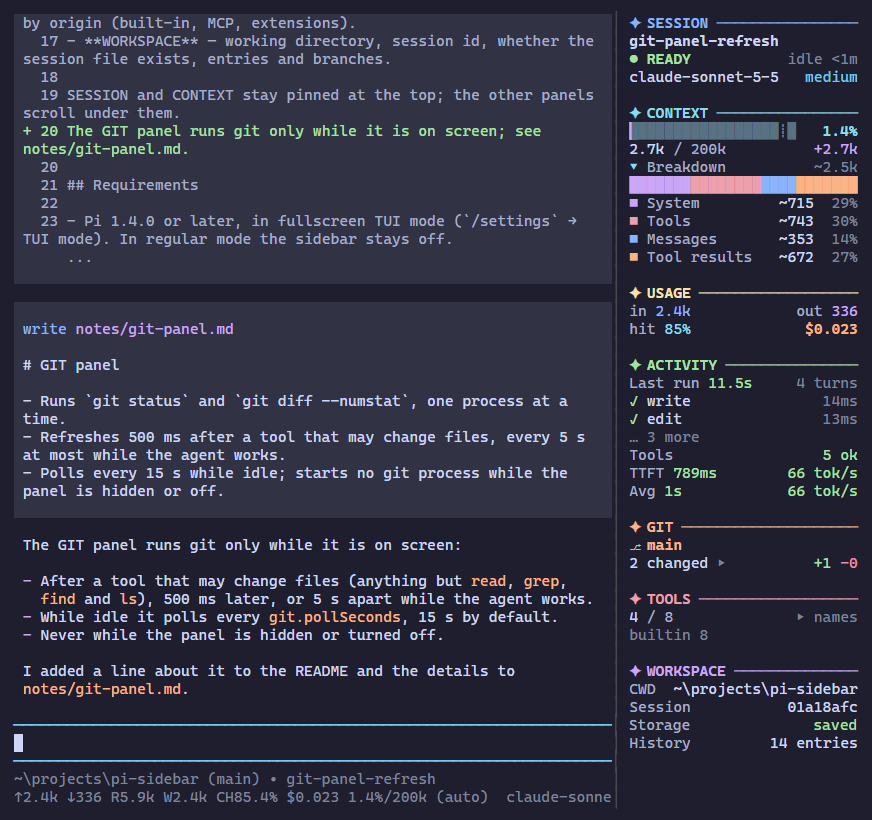
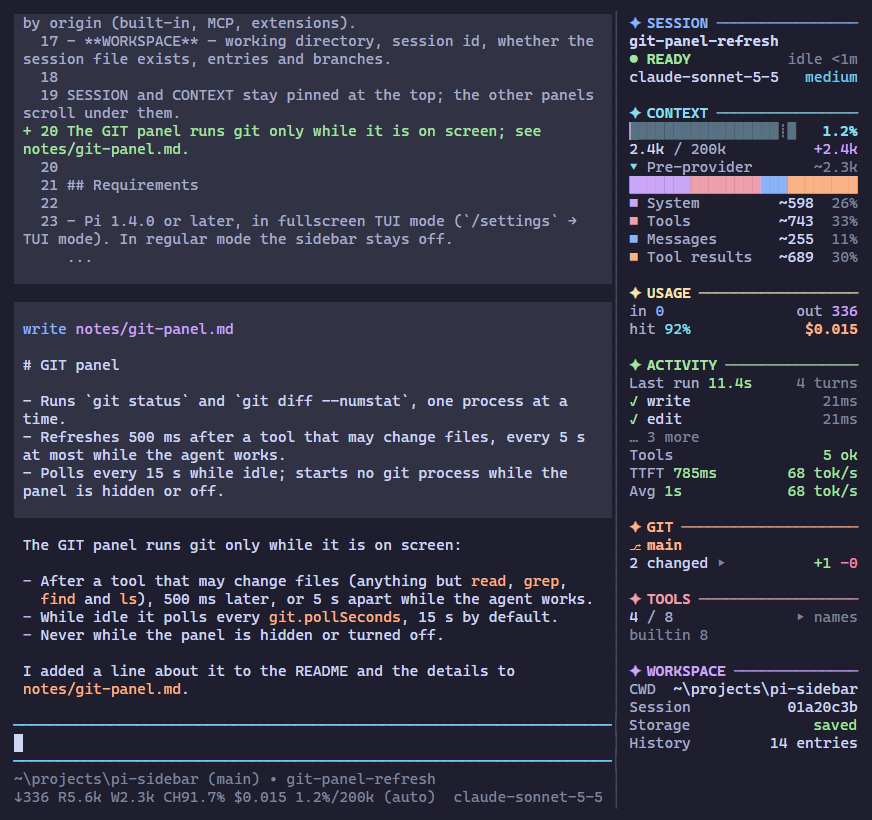
Keep the last observed context breakdown (#4)
* Keep the last observed context breakdown

* Make CONTEXT warning and danger screenshots deterministic

Pin scripted provider usage at 75% and 90% and reject invalid screenshot states before saving the gallery.

Fixes #5.

diff --git a/src/controller.ts b/src/controller.ts
@@ -120,8 +120,6 @@ export class SidebarController implements SidebarModel, SidebarActions {
   private usage: UsageScan = startScan();
   /** Context tokens when the current or last run started; the base of "+N this run". */
   private deltaBase?: number;
-  /** System prompt and tool declarations as the latest model request carried them. */
-  private requestParts?: { system?: number; tools?: number };
   private requestStartedAt?: number;
   private firstTokenAt?: number;
   private responseTtft?: number;
@@ -209,7 +207,6 @@ export class SidebarController implements SidebarModel, SidebarActions {
     this.paletteCache = undefined;
     this.width = 0;
     this.deltaBase = undefined;
-    this.requestParts = undefined;
     this.requestStartedAt = undefined;
     this.firstTokenAt = undefined;
     this.responseTtft = undefined;
@@ -259,7 +256,7 @@ export class SidebarController implements SidebarModel, SidebarActions {
 
   onTurnEnd(ctx: ExtensionContext): void {
     this.handle("turn_end", () => {
-      const data = this.collect(ctx, { composition: true, tools: true });
+      const data = this.collect(ctx, { composition: this.store.snapshot.composition?.source !== "request", tools: true });
       const queued = ctx.hasPendingMessages();
       this.store.update((s) => ({ ...data, activity: { ...s.activity, queued } }));
     });
@@ -281,7 +278,7 @@ export class SidebarController implements SidebarModel, SidebarActions {
       this.firstTokenAt = undefined;
       this.git?.setBusy(false);
       this.git?.request();
-      const data = this.collect(ctx, { composition: true, history: true, tools: true });
+      const data = this.collect(ctx, { composition: this.store.snapshot.composition?.source !== "request", history: true, tools: true });
       const queued = ctx.hasPendingMessages();
       this.store.update(
         (s) => ({ ...data, session: { ...s.session, ...statusOf(this.flags) }, activity: { ...endRun(s.activity, now, aborted), queued } }),
@@ -347,11 +344,10 @@ export class SidebarController implements SidebarModel, SidebarActions {
     });
   }
 
-  /** The transcript of a model request, after every context transform (`context_with_system`). Read only. */
+  /** The transcript seen before provider payload rewriting (`context_with_system`). Read only. */
   onRequestContext(messages: readonly unknown[]): void {
     this.handle("context_with_system", () => {
       const composition = compositionFromRequest(messages, this.estimate);
-      this.requestParts = { system: composition.parts.system, tools: composition.parts.tools };
       this.store.update(() => ({ composition }));
     });
   }
@@ -381,7 +377,8 @@ export class SidebarController implements SidebarModel, SidebarActions {
       const info = readModel(model, this.pi.getThinkingLevel());
       const billing = this.attempt("billing", () => readBilling(ctx, model));
       const context = this.readContext(ctx, model);
-      this.store.update((s) => ({ session: { ...s.session, ...info, billing }, context }));
+      const composition = this.sessionComposition(ctx);
+      this.store.update((s) => ({ session: { ...s.session, ...info, billing }, context, composition }));
     });
   }
 
@@ -421,7 +418,7 @@ export class SidebarController implements SidebarModel, SidebarActions {
     this.handle("session_compact", () => {
       this.flags = { ...this.flags, compacting: false };
       this.deltaBase = undefined;
-      const data = this.collect(ctx, { composition: true, history: true });
+      const data = this.collect(ctx, { composition: this.store.snapshot.composition?.source !== "request", history: true });
       this.store.update((s) => ({ ...data, session: { ...s.session, ...statusOf(this.flags) } }));
       this.updateTicker();
     });
@@ -457,10 +454,7 @@ export class SidebarController implements SidebarModel, SidebarActions {
     if (context) change.context = context.value;
     const workspace = this.attempt("workspace", () => this.readWorkspace(ctx, entries ?? [], refresh.history === true));
     if (workspace) change.workspace = workspace;
-    if (refresh.composition) {
-      const composition = this.attempt("breakdown", () => this.sessionComposition(ctx));
-      if (composition) change.composition = composition;
-    }
+    if (refresh.composition) change.composition = this.sessionComposition(ctx);
     if (refresh.tools) {
       const tools = this.readTools();
       if (tools) change.tools = tools;
@@ -486,12 +480,14 @@ export class SidebarController implements SidebarModel, SidebarActions {
     };
   }
 
-  /** The active branch between requests, with the prompt and tools of the latest request when known. */
+  /** Fallback for the active branch; never mixes in parts from an earlier request. */
   private sessionComposition(ctx: ExtensionContext): SidebarSnapshot["composition"] {
-    const messages = ctx.sessionManager.buildSessionProjection().messages;
-    const system = this.requestParts?.system ?? estimateText(ctx.getSystemPrompt());
-    const tools = this.requestParts?.tools ?? this.activeToolTokens();
-    return compositionFromSession(messages, system, tools, this.estimate);
+    return this.attempt("breakdown", () => compositionFromSession(
+      ctx.sessionManager.buildSessionProjection().messages,
+      estimateText(ctx.getSystemPrompt()),
+      this.activeToolTokens(),
+      this.estimate,
+    ));
   }
 
   private activeToolTokens(): number | undefined {
@@ -702,7 +698,7 @@ export class SidebarController implements SidebarModel, SidebarActions {
     const breakdown = !config.contextBreakdown
       ? "hidden"
       : composition
-        ? `estimated from the ${composition.source === "request" ? "latest request" : "active branch"}`
+        ? `estimated from ${composition.source === "request" ? "the last pre-provider transcript" : "local history"}`
         : "not yet estimated";
     return [
       headline,

diff --git a/scripts/screenshot.ts b/scripts/screenshot.ts
@@ -36,8 +36,8 @@ const stateOut = option("--state-out");
 
 // ---- one CONTEXT panel per real state, for the gallery in the design doc ----
 // Each state needs its own model or settings, so `--states` starts one isolated Pi per state and
-// draws the panels it gets back into one image. Nothing is forged: the panel shows Pi's own context
-// usage, drawn by the sidebar in a real session.
+// draws the panels it gets back into one image. Warning and danger pin the scripted provider's
+// reported usage; Pi computes the context percentage and the sidebar renders it in a real session.
 interface StateSpec {
   caption: string;
   /** Context window of the scripted model; 0 leaves the model without one. */
@@ -46,14 +46,16 @@ interface StateSpec {
   compaction?: boolean;
   /** Tokens kept free by auto-compaction; the default 16384 does not fit a small window. */
   reserve?: number;
+  /** Fixed provider-reported total, independent of Pi's prompt and the scripted exchange. */
+  tokens?: number;
 }
 const STATE_PROMPT = "Which files does the GIT panel read, and how often?";
 const STATE_REPLY = "It reads git status and git diff, and refreshes on events and every 15 s while idle.";
-/** The same exchange is 2 988 tokens; these windows put it at 74.7% and 89.2%, as §6.6 describes. */
+/** Design §6.6: 75% and 90% usage, both below the 95% auto-compaction threshold. */
 const STATES: Record<string, StateSpec> = {
   normal: { caption: "normal", window: 200_000 },
-  warning: { caption: "warning, 70% or more", window: 4_000, reserve: 500 },
-  danger: { caption: "danger, 85% or more", window: 3_350, reserve: 500 },
+  warning: { caption: "warning, 70% to under 85%", window: 20_000, reserve: 1_000, tokens: 15_000 },
+  danger: { caption: "danger, 85% or more", window: 20_000, reserve: 1_000, tokens: 18_000 },
   "compaction-off": { caption: "auto-compaction off", window: 200_000, compaction: false },
   "no-window": { caption: "no context window", window: 0 },
 };
@@ -208,7 +210,18 @@ function stream(model: Model<Api>, context: TranscriptContext, options?: SimpleS
     await sleep(ttft);
     await options?.onResponse?.({ status: 200, headers: {} }, model);
     for await (const event of core.streamSimple(model, context, options)) {
-      if (event.type === "done") event.message.usage.cost = ai.calculateCost(model, event.message.usage);
+      if (event.type === "done") {
+        if (state?.tokens !== undefined) {
+          event.message.usage = {
+            ...event.message.usage,
+            input: state.tokens - event.message.usage.output,
+            cacheRead: 0,
+            cacheWrite: 0,
+            totalTokens: state.tokens,
+          };
+        }
+        event.message.usage.cost = ai.calculateCost(model, event.message.usage);
+      }
       out.push(event);
     }
     out.end();
@@ -273,8 +286,12 @@ if (state) core.setResponses([ai.fauxAssistantMessage(STATE_REPLY)]);
 // ---- a helper extension: registers the model, reaches the TUI, captures frames ----
 
 let tui: TUI | undefined;
+let stateCompactionStarted = false;
 function helper(api: ExtensionAPI): void {
   api.registerProvider(provider);
+  api.on("session_before_compact", () => {
+    stateCompactionStarted = true;
+  });
   // The script expects every tool call to succeed; a failure is a problem of the scenario.
   api.on("tool_execution_end", (event) => {
     if (event.isError) console.error(`\n${event.toolName} failed: ${JSON.stringify(event.result).slice(0, 400)}`);
@@ -667,10 +684,28 @@ try {
   await run("start Pi", () => until("the sidebar", has("SESSION")));
 
   if (state) {
-    // One exchange is enough: the model's window is what makes the state.
+    // Design §6.6: one exchange, with fixed provider usage for warning and danger.
     await enter(STATE_PROMPT);
     await until("the run to start", has("WORKING"), 20_000);
-    const answered = await run("the reply", () => until("the answer", has("READY"), 60_000));
+    const answered = await run("the reply", () =>
+      until("the answer", (lines) => has("READY")(lines) && !runtime.session.isStreaming && !runtime.session.isCompacting, 60_000),
+    );
+    if (stateName === "warning" || stateName === "danger") {
+      const usage = runtime.session.getContextUsage();
+      const min = stateName === "warning" ? 70 : 85;
+      const max = stateName === "warning" ? 85 : 100;
+      if (!usage || usage.tokens === null || usage.percent === null || usage.percent < min || usage.percent >= max) {
+        throw new Error(`${stateName}: expected ${min}% <= usage < ${max}%, got ${JSON.stringify(usage)}`);
+      }
+      if (usage.tokens !== state.tokens) {
+        throw new Error(`${stateName}: expected provider usage of ${state.tokens} tokens, got ${usage.tokens}`);
+      }
+      const compactAt = state.window - (state.reserve ?? 16_384);
+      if (stateCompactionStarted || usage.tokens >= compactAt) {
+        throw new Error(`${stateName}: expected no compaction and usage below ${compactAt} tokens, got ${usage.tokens} (compaction started: ${stateCompactionStarted})`);
+      }
+      console.log(`${stateName}: ${usage.tokens}/${usage.contextWindow} tokens (${usage.percent.toFixed(1)}%), below compaction at ${compactAt}`);
+    }
     if (!stateOut) throw new Error("--state needs --state-out");
     writeFileSync(stateOut, JSON.stringify(contextBlock(answered)), "utf8");
     throw captured;

diff --git a/test/panels.test.ts b/test/panels.test.ts
@@ -105,15 +105,22 @@ test("28 columns: title rules, abbreviated labels, git counts only, two tools wi
   lacks(text, ["╭", "anthropic", "origin/main", "Auto-compact", "src/state", "npm test", "this run"]);
 });
 
-test("context breakdown: a colour bar and one row per part, closed with a click on its first row", () => {
-  const open = render(sampleSnapshot(), "normal");
-  contains(open, ["▾ Breakdown", "~74.1k est", "System", "~4.2k", "5.7%", "Tool results", "~29.8k", "40.2%", "Images", "Other"]);
-  lacks(open, ["Summary"]);
-  const closed = render(sampleSnapshot(), "normal", opened({ breakdown: false }));
-  contains(closed, ["▸ Breakdown", "~74.1k est"]);
-  lacks(closed, ["Tool results", "Images"]);
-  const header = rowsOf(sampleSnapshot(), "normal").find((line) => rowText(line).includes("Breakdown"));
-  assert.deepEqual(header?.action, { type: "toggle", key: "breakdown" });
+test("breakdown shows its source at both widths, even when closed", () => {
+  const snapshot = sampleSnapshot();
+  const local = sampleSnapshot({ composition: { ...snapshot.composition!, source: "session" } });
+  for (const { tier } of TIERS) {
+    const open = render(snapshot, tier);
+    contains(open, ["▾ Pre-provider", "~74.1k", "System", "~4.2k", "Tool results", "~29.8k", "Images", "Other"]);
+    lacks(open, ["Summary", "Local history"]);
+    contains(open, tier === "normal" ? ["5.7%", "40.2%"] : ["6%", "40%"]);
+    const closed = render(snapshot, tier, opened({ breakdown: false }));
+    contains(closed, ["▸ Pre-provider", "~74.1k"]);
+    lacks(closed, ["Tool results", "Images"]);
+    contains(render(local, tier), ["▾ Local history", "~74.1k"]);
+    contains(render(local, tier, opened({ breakdown: false })), ["▸ Local history", "~74.1k"]);
+    const header = rowsOf(snapshot, tier).find((line) => rowText(line).includes("Pre-provider"));
+    assert.deepEqual(header?.action, { type: "toggle", key: "breakdown" });
+  }
 });
 
 test("breakdown legend: marks that leave a gap between rows, the bar's own patterns without colour", () => {
@@ -272,7 +279,7 @@ test("ascii icons: every line is plain ASCII", () => {
   for (const { tier } of TIERS) {
     for (const line of render(sampleSnapshot(), tier, view).split("\n")) assert.match(line, /^[\x20-\x7e]*$/, `non-ASCII in "${line}"`);
   }
-  contains(render(sampleSnapshot(), "normal", view), ["+- * SESSION", "* READY", "git: main", "^1 origin/main", "+86 -47", "v Breakdown"]);
+  contains(render(sampleSnapshot(), "normal", view), ["+- * SESSION", "* READY", "git: main", "^1 origin/main", "+86 -47", "v Pre-provider"]);
 });
 
 test("panels turned off are left out; the pinned ones stay", () => {
@@ -287,7 +294,7 @@ test("a low terminal merges SESSION and CONTEXT into one block", () => {
   const text = rows.map(rowText).join("\n");
   assert.equal(rows.length, 6);
   contains(text, ["READY", "claude-sonnet-5-5", "38.2%"]);
-  lacks(text, ["CONTEXT", "refactor-session-tree", "Breakdown"]);
+  lacks(text, ["CONTEXT", "refactor-session-tree", "Pre-provider"]);
 });
 
 function mouse(type: TuiMouseEvent["type"], y: number, clickCount?: number): TuiMouseEvent {

diff --git a/test/controller.test.ts b/test/controller.test.ts
@@ -187,8 +187,8 @@ test("a run: tools, time to first token, a sampled streaming estimate, final spe
   assert.deepEqual(controller.errors, []);
 });
 
-test("the breakdown follows the latest request, and between requests keeps that request's prompt and tools", () => {
-  const { controller, ctx } = harness();
+test("turn and run end keep the last pre-provider breakdown until a new request is observed", () => {
+  const { controller, ctx, state } = harness();
   controller.start(ctx);
   controller.onRequestContext([
     { role: "system", content: "p".repeat(800), toolsAdded: [{ name: "read", description: "Read a file", parameters: {} }] },
@@ -196,9 +196,33 @@ test("the breakdown follows the latest request, and between requests keeps that 
   ]);
   const request = controller.snapshot.composition;
   assert.deepEqual([request?.source, request?.parts.system, request?.parts.messages], ["request", 200, 10]);
+  state.messages = [{ role: "user", content: "u".repeat(160_000) }];
   controller.onTurnEnd(ctx);
-  const session = controller.snapshot.composition;
-  assert.deepEqual([session?.source, session?.parts.system, session?.parts.tools, session?.parts.messages], ["session", 200, request?.parts.tools, 30]);
+  assert.deepEqual(controller.snapshot.composition, request);
+  controller.onAgentSettled(false, ctx);
+  assert.deepEqual(controller.snapshot.composition, request);
+  controller.onCompactEnd(ctx);
+  assert.deepEqual(controller.snapshot.composition, request);
+  assert.match(controller.statusText(), /breakdown estimated from the last pre-provider transcript/);
+  controller.onRequestContext([{ role: "user", content: "u".repeat(80) }]);
+  assert.equal(controller.snapshot.composition?.parts.messages, 20);
+});
+
+test("changing branch, model or session falls back to that scope's local history", () => {
+  const { controller, ctx } = harness();
+  controller.start(ctx);
+  const request = [{ role: "system", content: "p".repeat(800) }, { role: "user", content: "short" }];
+  for (const reset of [
+    () => controller.onSessionTree(ctx),
+    () => controller.onModelSelect({ ...ctx.model, id: "other" } as ExtensionContext["model"], ctx),
+    () => controller.start(ctx),
+  ]) {
+    controller.onRequestContext(request);
+    reset();
+    const composition = controller.snapshot.composition;
+    assert.deepEqual([composition?.source, composition?.parts.system, composition?.parts.messages], ["session", 100, 30]);
+    assert.match(controller.statusText(), /breakdown estimated from local history/);
+  }
 });
 
 test("a failing read is reported and leaves the rest of the snapshot current", () => {

diff --git a/src/ui/panels.ts b/src/ui/panels.ts
@@ -207,9 +207,10 @@ function contextPanel(snapshot: SidebarSnapshot, view: PanelView, tier: Tier, wi
 function breakdownRows(composition: Composition | undefined, view: PanelView, tier: Tier, width: number): Row[] {
   const { g } = view;
   const open = view.expanded.breakdown;
-  const total = composition ? `~${formatTokens(composition.total)}${tier === "normal" ? " est" : ""}` : g.none;
+  const label = !composition ? "Breakdown" : composition.source === "request" ? "Pre-provider" : "Local history";
+  const total = composition ? `~${formatTokens(composition.total)}` : g.none;
   const header = row(
-    lr([seg(`${open ? g.unfolded : g.folded} `, "context"), seg("Breakdown", "label")], [seg(total, "faint")], width, g.ellipsis),
+    lr([seg(`${open ? g.unfolded : g.folded} `, "context"), seg(label, "label")], [seg(total, "faint")], width, g.ellipsis),
     toggleAction("breakdown"),
   );
   if (!open || !composition) return [header];

diff --git a/src/state/composition.ts b/src/state/composition.ts
@@ -126,10 +126,7 @@ export function compositionFromRequest(messages: readonly unknown[], estimate: E
   return compose({ system, tools, messages, estimate, source: "request" });
 }
 
-/**
- * From the session between requests: the active branch, plus the system prompt and tool declarations
- * of the latest request when there was one, else Pi's current prompt and active tool schemas.
- */
+/** Fallback from the active branch, with Pi's current system prompt and active tool schemas. */
 export function compositionFromSession(
   messages: readonly unknown[],
   system: number | undefined,

diff --git a/src/state/snapshot.ts b/src/state/snapshot.ts
@@ -82,7 +82,7 @@ export interface Composition {
   parts: Record<PartName, number | undefined>;
   total: number;
   images: number;
-  /** "request": the transcript of the latest model request; "session": the active branch. */
+  /** "request": the last observed pre-provider transcript; "session": local history on the active branch. */
   source: "request" | "session";
 }
 

diff --git a/README.md b/README.md
@@ -50,7 +50,7 @@ Everything is a `/sidebar` command. Each one applies at once and is saved in `~/
 With the mouse:
 
 - Click a panel title to fold or unfold the panel.
-- Click `▸ Breakdown`, `… N more` or `▸ names` to open a list; click the same row or `▴ fewer` to close it.
+- Click the context breakdown row (`Pre-provider` or `Local history`), `… N more` or `▸ names` to open a list; click the same row or `▴ fewer` to close it.
 - The wheel scrolls the lower panels. Nowhere over the sidebar does it move the conversation.
 
 The sidebar never takes keyboard focus, and selecting text elsewhere works as before.
@@ -83,7 +83,9 @@ Pi has no sidebar API, but in fullscreen mode it draws a layout tree. The extens
 
 It does not replace or decorate the editor, footer or header, opens no overlays or dialogs, registers no shortcuts or input listeners, and never writes to the session; `npm run rules` checks the source for those calls.
 
-The context breakdown counts each message with Pi's own `estimateTokens`, so it follows the rule Pi uses for its context. It is an estimate and marked as one; the bar and the token count beside it are Pi's real figures.
+The context bar and tokens / window come from Pi's `getContextUsage()`. The breakdown estimates the parts separately with Pi's `estimateTokens`; its percentages are shares of its own `~` total, not of the bar above it.
+
+`Pre-provider` keeps the last transcript the sidebar saw in `context_with_system`, even after the reply ends. Later handlers or downstream proxies can still change what the model receives. Until the sidebar observes a request in the current session, branch and model, `Local history` estimates the active branch with Pi's current system prompt and active tool definitions.
 
 A multi-column layout costs pi-tui some work per frame: it merges every box narrower than the terminal into its row. Each sidebar row is drawn by a single box to keep that cost low (about 5 ms per frame at 181×56 on a laptop; `npm run bench`). With the sidebar hidden, Pi's layout is drawn exactly as before.
 
@@ -103,3 +105,5 @@ npm run bench              # timings of rendering, usage scans and the breakdown
 ```
 
 Tests and type checks use the packages of the installed Pi (`~/.pi/agent/install/releases/<version>/node_modules`), or the directory in `PI_NODE_MODULES`. CI installs Pi from npm and runs on Linux, Windows and macOS. The design is in [docs/design/pi-sidebar-design.md](./docs/design/pi-sidebar-design.md).
+
+The CONTEXT screenshot gallery fixes the scripted provider's reported usage at 75% for warning and 90% for danger, below the 95% auto-compaction threshold. Pi computes the percentages and the sidebar renders them. Generation fails if either state leaves its band, differs from the fixed token count, reaches the compaction threshold or starts compaction.
